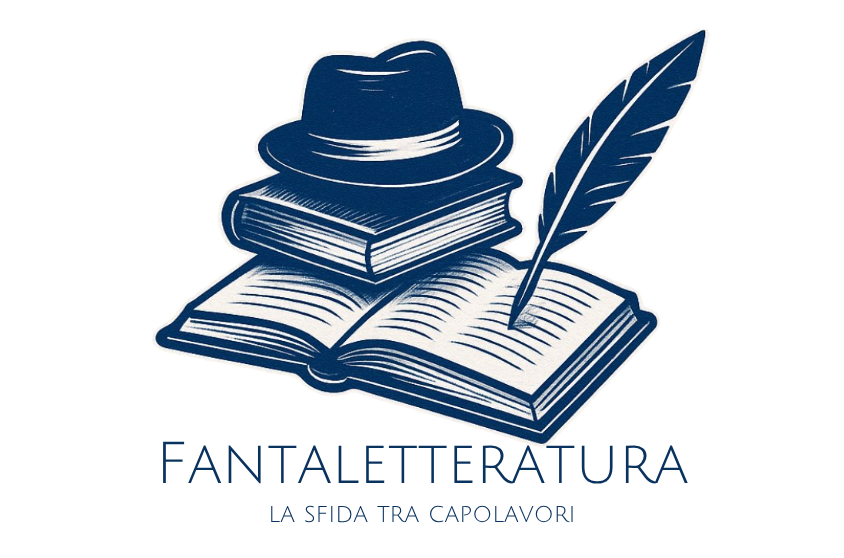
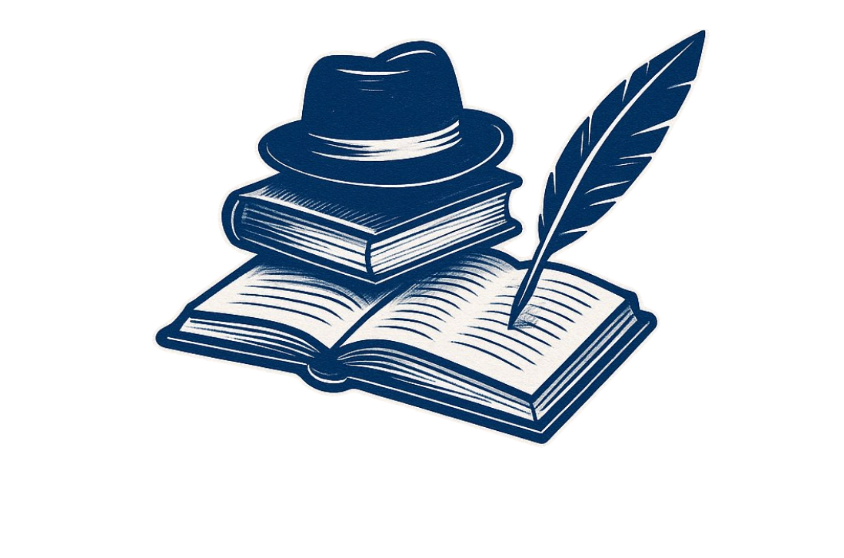
fix(branding): applicazione loghi ufficiali su base nera e pulizia testata pannello docente

Changed region(s): [[0.1848, 0.7921, 0.8318, 0.8835], [0.4621, 0.914, 0.6777, 0.9444], [0.3081, 0.914, 0.4313, 0.9444]]

diff --git a/index.html b/index.html
@@ -133,7 +133,7 @@
 
                 <h1 class="text-center">Benvenuto in Fantaletteratura!<br>Clicca sul pulsante, crea la tua squadra e completa le missioni!</h1>
                 <div class="logo-container">
-                    <img src="https://prof-memmo.github.io/prof-memmo-gestione-siti/shared/assets/branding/games/fantaletteratura-badge.png" alt="Logo Fantaletteratura" class="logo-circle fanta-logo-glow">
+                    <img src="assets/branding/fantaletteratura-badge.png?v=20261004_v2" alt="Logo Fantaletteratura" class="logo-circle fanta-logo-glow">
                 </div>
                 <div class="glass" style="padding: 20px; margin-top: 20px; max-width: 440px; margin-left: auto; margin-right: auto; text-align: center;" id="login-section">
                     <p class="text-center" style="font-size: 0.95rem; color: #fff; margin-bottom: 18px; font-weight: 500;">Accedi o registrati per iniziare a giocare.</p>
@@ -836,24 +836,9 @@
 
              <!-- VIEW: Profilo -->
              <section id="view-profilo" class="view">
-
-                  <div style="display: flex; justify-content: space-between; align-items: center; margin-bottom: 15px; gap: 10px; flex-wrap: wrap;">
-                      <div style="display: flex; align-items: center; gap: 12px;">
-                          <img id="profilo-avatar-img" src="assets/avatars/6.png" alt="Avatar" style="width: 42px; height: 42px; border-radius: 50%; object-fit: cover; border: 2px solid var(--primary-color); background: #ffffff; padding: 1px;">
-                          <div>
-                              <h2 style="margin: 0; font-size: 1.3rem;">Pannello Docente</h2>
-                              <span id="profilo-display-name" style="font-size: 0.85rem; color: var(--primary-color); font-weight: 700;">Docente</span>
-                          </div>
-                      </div>
-                      <div style="display: flex; align-items: center; gap: 8px;">
-                          <button class="btn btn-secondary" onclick="window.openEditProfileModal();" style="padding: 6px 14px; font-size: 0.8rem; border-radius: 20px; width: auto; margin: 0;">
-                              <i class="fa-solid fa-user-gear"></i> Modifica
-                          </button>
-                          <button class="btn" style="padding: 6px 14px; font-size: 0.8rem; border-radius: 20px; width: auto; background: var(--primary-color); color: #000; font-weight: 700; margin: 0;" onclick="openInviteModal();">
-                              <i class="fa-solid fa-paper-plane"></i> Invita
-                          </button>
-                      </div>
-                  </div>
+                  <h2 class="mb-2" style="font-size: 1.4rem; color: var(--primary-color); display: flex; align-items: center; gap: 10px;">
+                      <i class="fa-solid fa-chalkboard-user"></i> Pannello Docente
+                  </h2>
                   <input type="text" id="profilo-email" class="input-control mb-2" value="" readonly style="background: rgba(255,255,255,0.05); color: #aaa;">
 
                   <!-- TABS HEADER -->
